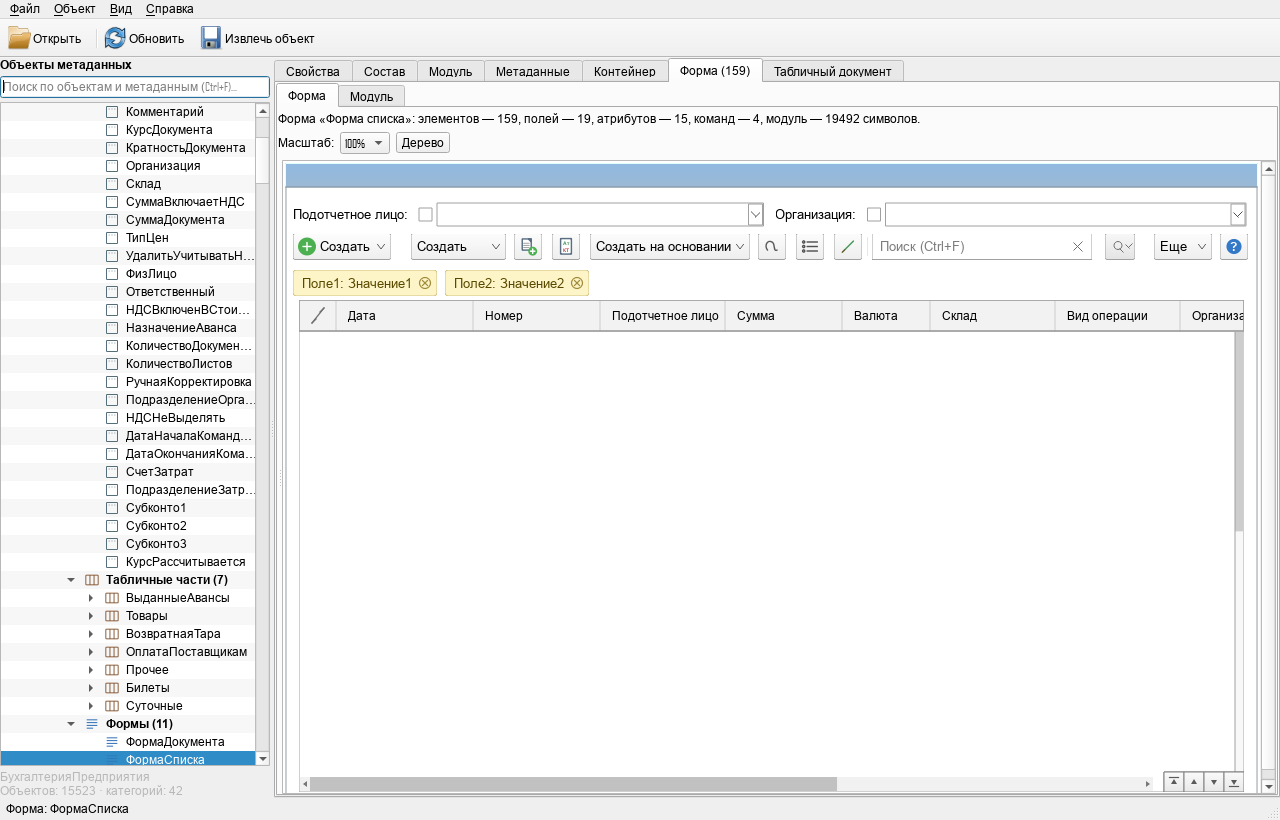
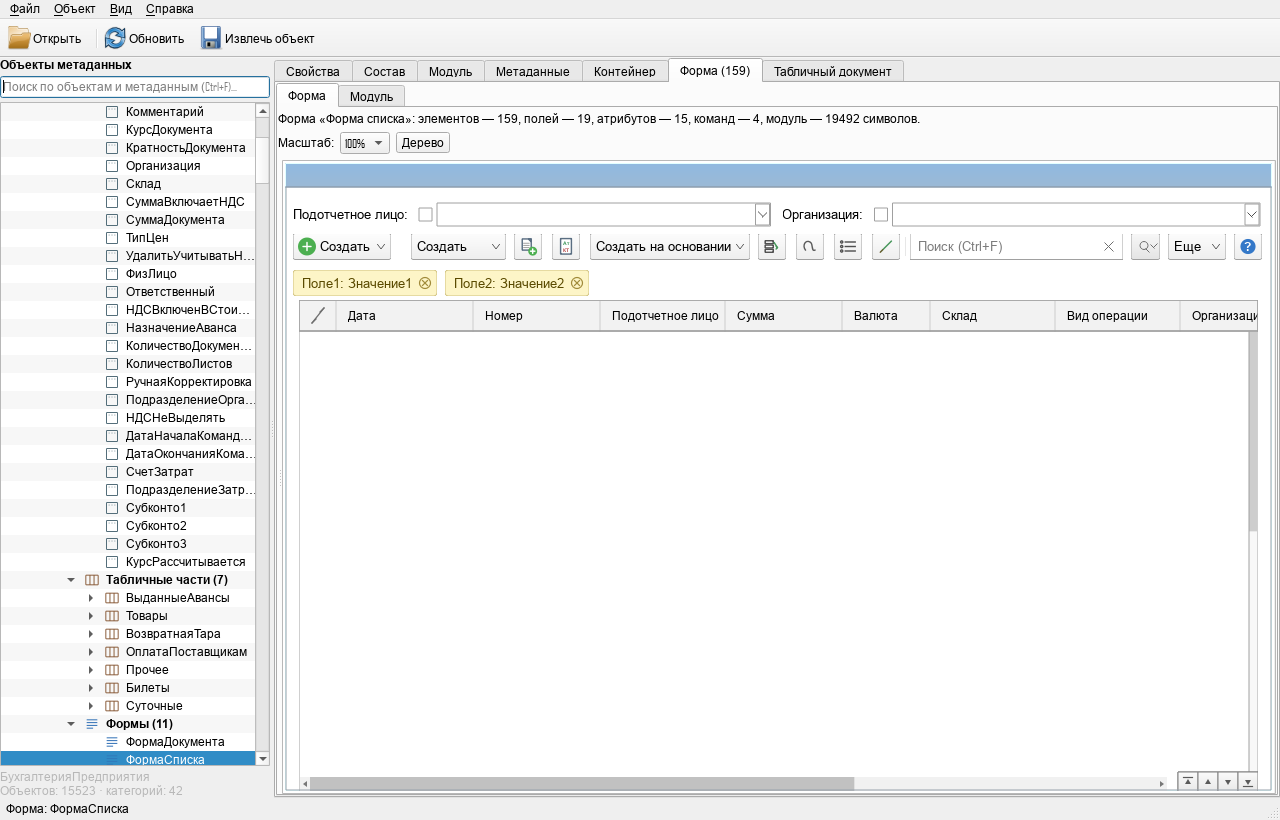
fix(forms): форма без внешней прокрутки

Changed region(s): [[0.6562, 0.1829, 1.0, 0.9756], [0.5938, 0.2439, 0.7812, 0.3049]]

diff --git a/src/gui/FormView.cpp b/src/gui/FormView.cpp
@@ -1691,6 +1691,8 @@ private:
             logicalHeight = std::max(logicalHeight,
                 margin * 2.0 + targetContentHeight + titleBarHeight);
         }
+        if (viewportLogical > 0.0 && m_document->runtimeListCommands)
+            logicalHeight = std::min(logicalHeight, viewportLogical);
         setFixedSize(int(logicalWidth * m_scale), int(logicalHeight * m_scale));
         update();
     }

diff --git a/CHANGELOG.md b/CHANGELOG.md
@@ -128,6 +128,8 @@
   до 8,57 по средней попиксельной оценке.
 - Таблица удлинена до 492 px: нижняя полоса прокрутки встала на уровень
   эталона, средняя разница уменьшилась до 8,31.
+- Высота формы ограничена видимой областью — внешняя вертикальная
+  прокрутка приложения исчезла; средняя разница с эталоном 8,12.
 - В формах элементов справочников добавлены стандартные команды
   «Записать и закрыть» и «Записать»; командная панель таких форм
   определяется и без отдельной группы кнопок.
